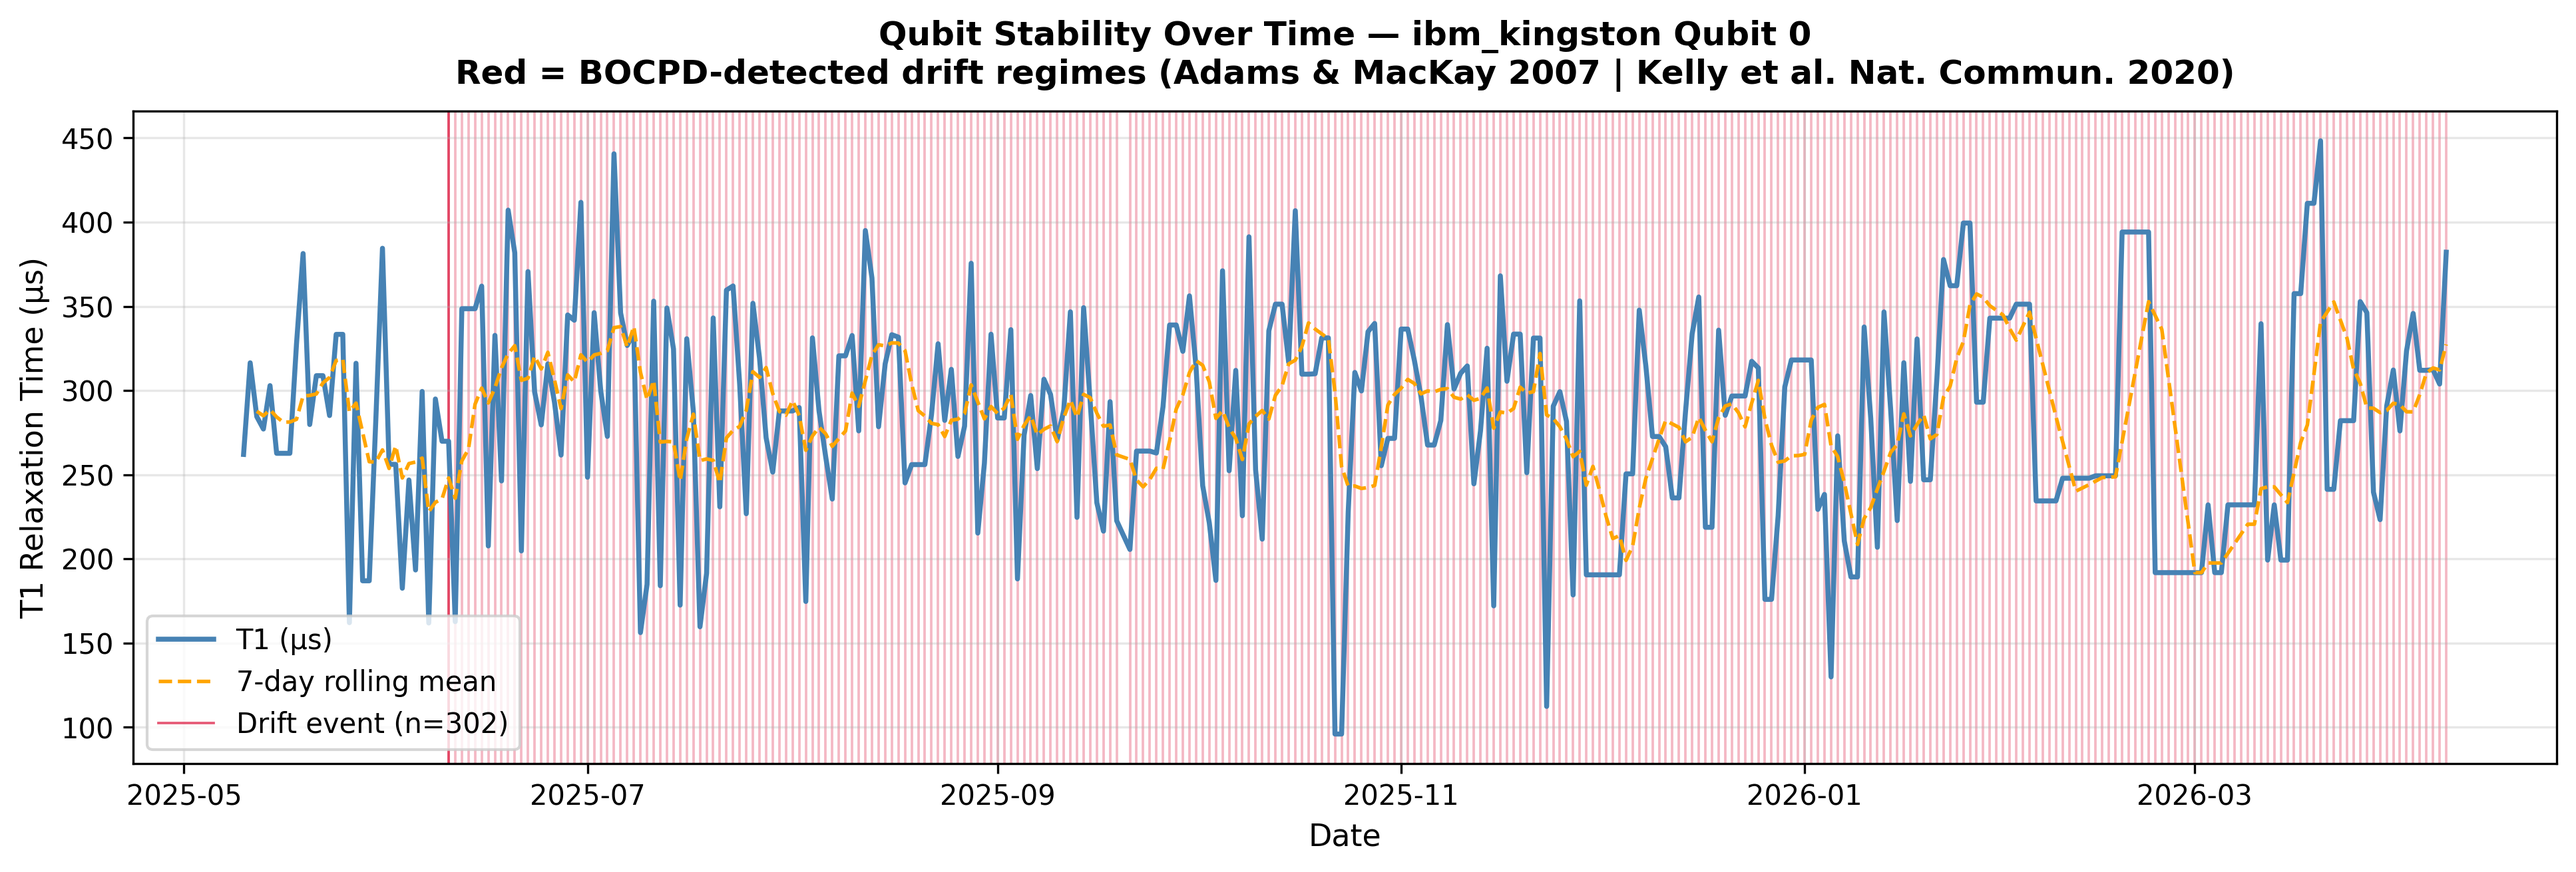
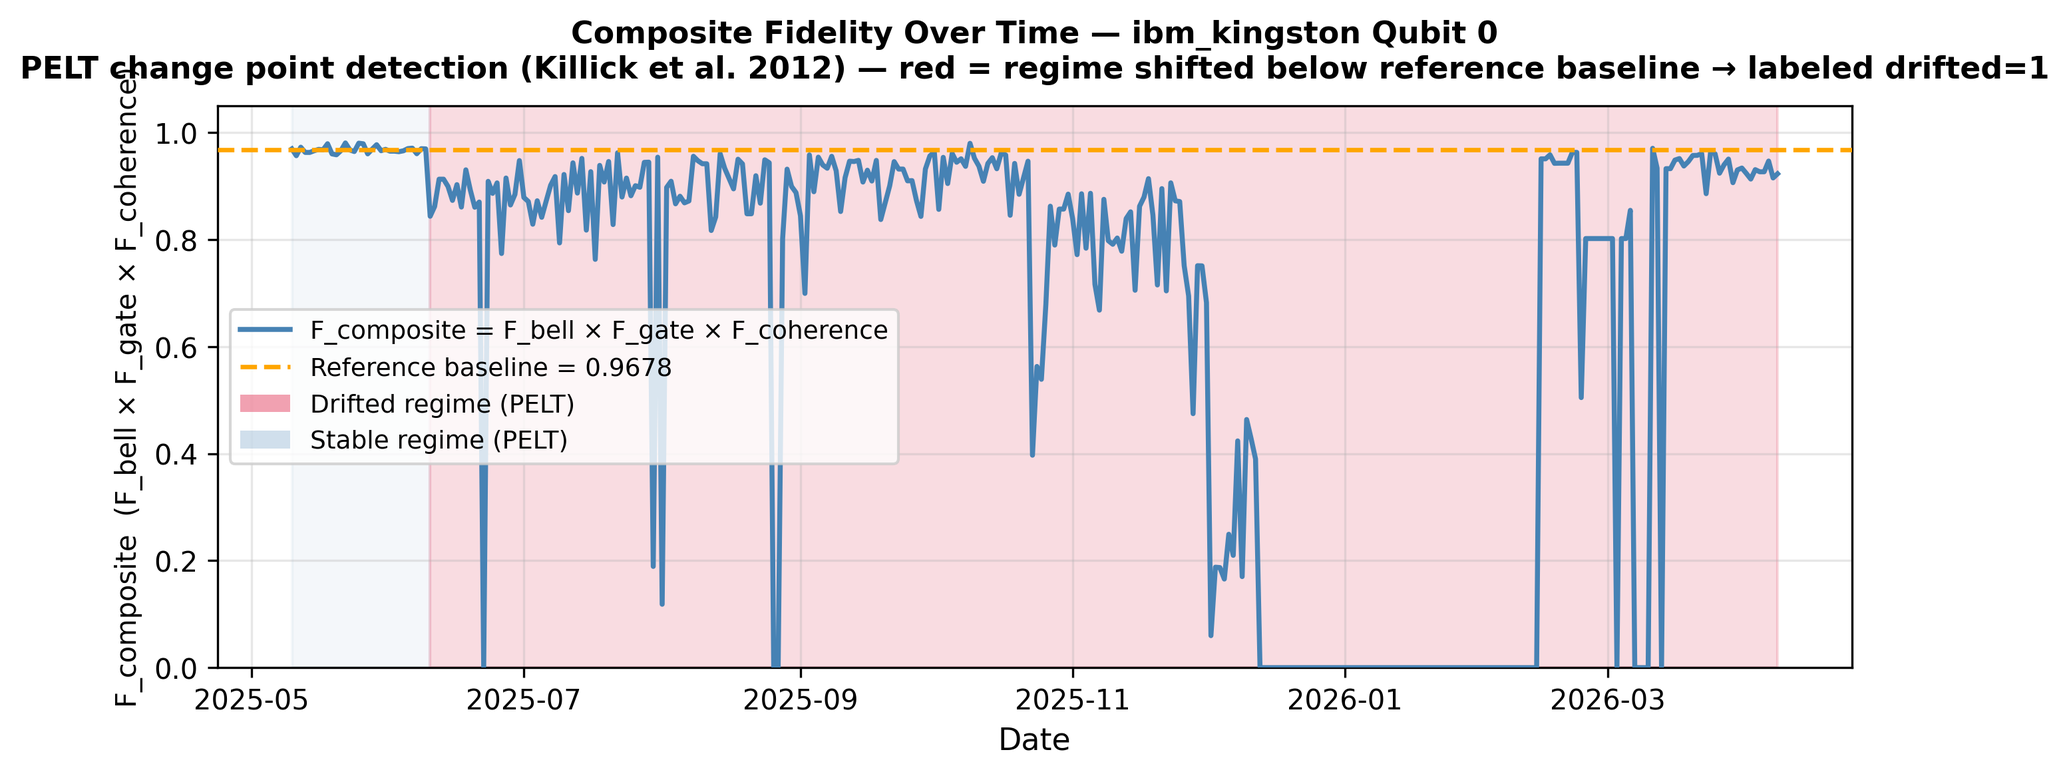
update 2

diff --git a/2_label_data.py b/2_label_data.py
@@ -137,7 +137,7 @@ print(f"  F_coherence mean={df['F_coherence'].mean():.4f}  std={df['F_coherence'
 
 # ── 6. LABEL: BAYESIAN CHANGE POINT DETECTION ON F_COMPOSITE ─────────────────
 #
-# METHOD: Bayesian Online Change Point Detection (BOCPD)
+# METHOD: PELT — Pruned Exact Linear Time (Killick, Fearnhead & Eckley, JASA 2012)
 #   Adams & MacKay (2007), "Bayesian Online Changepoint Detection"
 #   arXiv:0710.3742
 #
@@ -149,7 +149,7 @@ print(f"  F_coherence mean={df['F_coherence'].mean():.4f}  std={df['F_coherence'
 #
 # LABELING LOGIC:
 #   1. Compute F_composite per row (product of 3 fidelities)
-#   2. For each qubit on each backend, run BOCPD on the F_composite time series
+#   2. For each qubit on each backend, run PELT on the F_composite time series
 #   3. A change point = the qubit's fidelity distribution has structurally shifted
 #   4. Label = 1 (drifted) for all rows AFTER a detected change point
 #      Label = 0 (stable) for all rows BEFORE the first change point
@@ -176,7 +176,7 @@ except ImportError:
 df['F_composite'] = df['F_bell'] * df['F_gate'] * df['F_coherence']
 df['drifted'] = 0   # default stable
 
-print("Running Bayesian Change Point Detection per qubit per backend...")
+print("Running PELT change point detection per qubit per backend...")
 
 groups = df.groupby(['backend', 'qubit_id'])
 total_changepoints = 0
@@ -186,9 +186,9 @@ for (backend, qubit), idx in groups.groups.items():
     signal = group['F_composite'].values
 
     if len(signal) < 6:
-        continue   # not enough history for BOCPD
+        continue   # not enough history for PELT
 
-    # Step 2: BOCPD via ruptures — Pelt algorithm with rbf cost
+    # Step 2: PELT via ruptures — RBF cost function
     # min_size=3: minimum segment length (at least 3 days per regime)
     # pen=1.5:    penalty term controlling sensitivity
     #             lower = more change points detected (more sensitive)
@@ -345,19 +345,64 @@ if len(drift_rows) > 0:
                alpha=0.7, linewidth=0.9,
                label=f'Drift event (n={len(drift_rows)})', zorder=1)
 
+# ═════════════════════════════════════════════════════════════════════════════
+# FIGURE 1: F_composite over time with PELT drift regions
+# ═════════════════════════════════════════════════════════════════════════════
+print("Generating Figure 1: F_composite + PELT drift regions...")
+
+fig1_data = df[
+    (df['backend']  == fig1_backend) &
+    (df['qubit_id'] == fig1_qubit)
+].copy().sort_values('timestamp').reset_index(drop=True)
+
+fig, ax = plt.subplots(figsize=(9, 4))
+
+ax.plot(fig1_data['timestamp'], fig1_data['F_composite'],
+        color='steelblue', linewidth=1.8,
+        label='F_composite = F_bell × F_gate × F_coherence', zorder=3)
+
+# Shade drifted/stable regions
+prev_idx   = 0
+prev_drift = int(fig1_data['drifted'].iloc[0])
+for i in range(1, len(fig1_data)):
+    curr_drift = int(fig1_data['drifted'].iloc[i])
+    if curr_drift != prev_drift or i == len(fig1_data) - 1:
+        color = 'crimson'   if prev_drift == 1 else 'steelblue'
+        alpha = 0.15        if prev_drift == 1 else 0.06
+        ax.axvspan(fig1_data['timestamp'].iloc[prev_idx],
+                   fig1_data['timestamp'].iloc[i],
+                   color=color, alpha=alpha, zorder=1)
+        prev_idx   = i
+        prev_drift = curr_drift
+
+# Reference baseline line
+first_drift_idx = fig1_data[fig1_data['drifted'] == 1].index.min() \
+                  if fig1_data['drifted'].sum() > 0 else len(fig1_data)
+ref_mean = fig1_data.loc[:first_drift_idx - 1, 'F_composite'].mean() \
+           if first_drift_idx > 0 else fig1_data['F_composite'].mean()
+ax.axhline(ref_mean, color='orange', linewidth=1.6, linestyle='--',
+           label=f'Reference baseline = {ref_mean:.4f}', zorder=4)
+
+from matplotlib.patches import Patch
+ax.legend(handles=[
+    ax.lines[0], ax.lines[1],
+    Patch(facecolor='crimson',   alpha=0.4, label='Drifted regime (PELT)'),
+    Patch(facecolor='steelblue', alpha=0.25, label='Stable regime (PELT)'),
+], fontsize=9)
+
 ax.set_title(
-    f'Qubit Stability Over Time — {fig1_backend} Qubit {fig1_qubit}\n'
-    f'Red = BOCPD-detected drift regimes (Adams & MacKay 2007 | Kelly et al. Nat. Commun. 2020)',
-    fontsize=12, fontweight='bold', pad=10
+    f'Composite Fidelity Over Time — {fig1_backend} Qubit {fig1_qubit}\n'
+    f'PELT change point detection (Killick et al. 2012) — '
+    f'red = regime shifted below reference baseline → labeled drifted=1',
+    fontsize=11, fontweight='bold', pad=10
 )
 ax.set_xlabel('Date', fontsize=11)
-ax.set_ylabel('T1 Relaxation Time (µs)', fontsize=11)
-ax.legend(fontsize=10)
+ax.set_ylabel('F_composite  (F_bell × F_gate × F_coherence)', fontsize=10)
+ax.set_ylim(0, 1.05)
 ax.grid(alpha=0.3)
 plt.tight_layout()
 plt.savefig('figures/fig_qubit_stability.png', dpi=300, bbox_inches='tight')
 plt.close()
-print("  ✓ figures/fig_qubit_stability.png")
 
 # ═════════════════════════════════════════════════════════════════════════════
 # FIGURE 2: Feature Distributions — stable vs drifted
@@ -405,7 +450,7 @@ for ax, feat, label in zip(axes, features, feat_labels):
 
 plt.suptitle(
     'Analytical Fidelity Feature Distributions: Stable vs Drifted\n'
-    'Labels assigned via BOCPD on F_composite (Adams & MacKay 2007 | Kelly et al. Nat. Commun. 2020)',
+    'Labels assigned via PELT on F_composite (Killick et al. 2012 | Kelly et al. Nat. Commun. 2020)',
     fontsize=12, fontweight='bold', y=1.02
 )
 plt.tight_layout()
@@ -420,5 +465,6 @@ print(f"{'='*55}")
 print(f"  Total rows    : {total:,}")
 print(f"  Drift events  : {drift_count:,} ({drift_pct}%)")
 print(f"  Stable        : {stable_count:,} ({100-drift_pct}%)")
-print(f"  Method        : BOCPD on F_composite = F_bell × F_gate × F_coherence")
+print(f"  Method        : PELT on F_composite = F_bell × F_gate × F_coherence")
 print(f"  Citations     : Adams & MacKay (2007) | Kelly et al. Nat. Commun. (2020)")
+print(f"\n  NEXT: python 3_validate_data.py")
